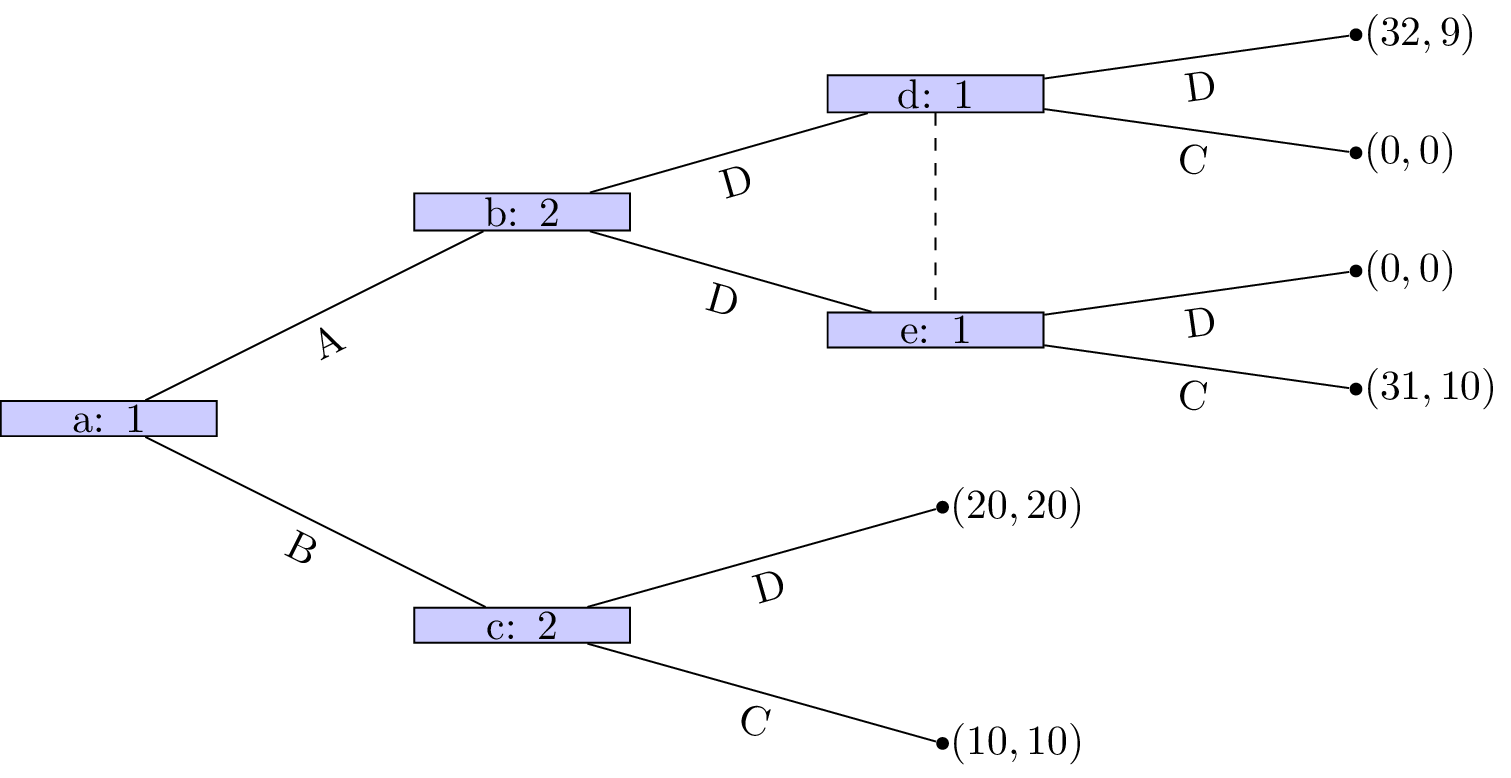
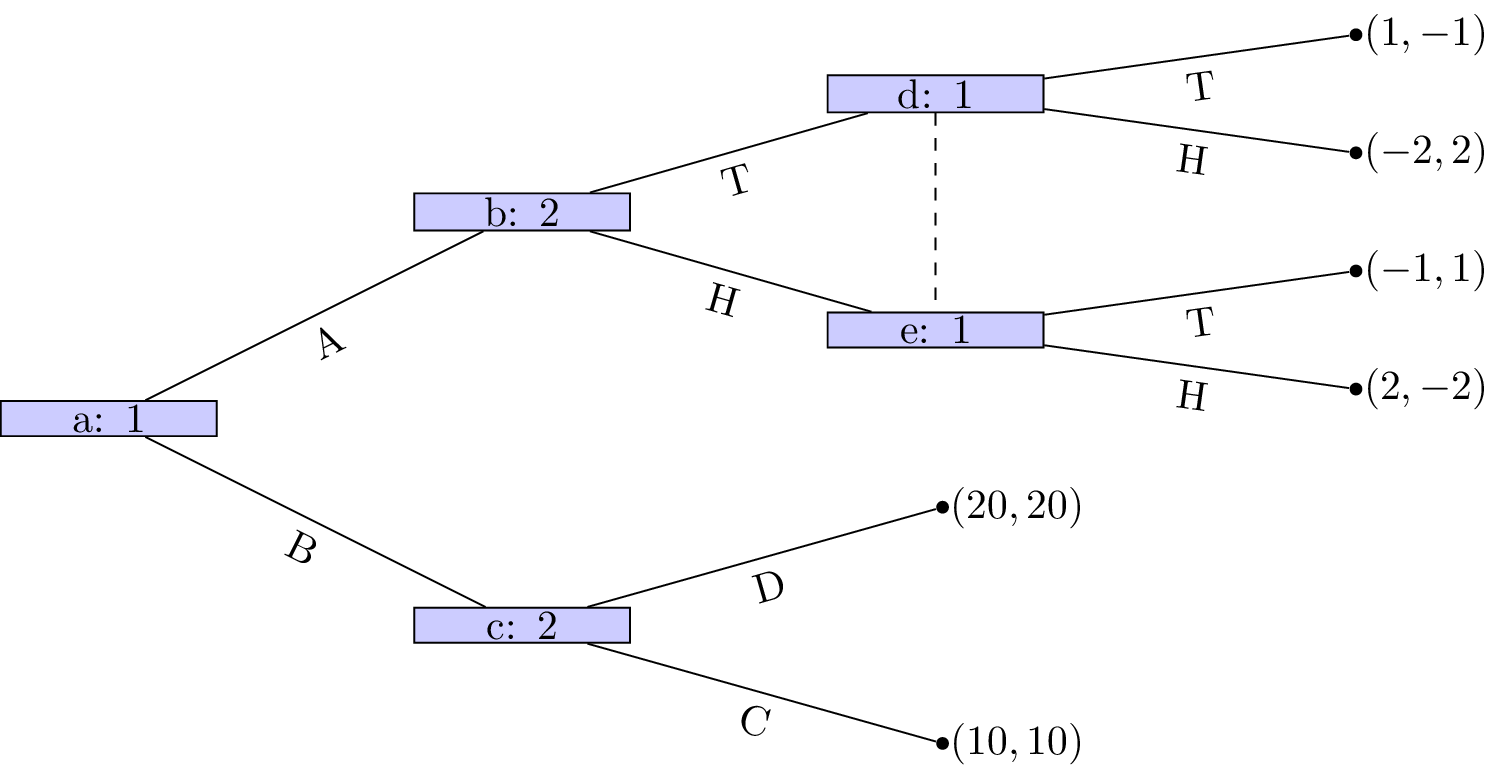
Update images

diff --git a/Solutions/images/E03-img07.tex b/Solutions/images/E03-img07.tex
@@ -14,13 +14,13 @@
                 child {node[end] {} node[right] {$(20,20)$} edge from parent node[below] {D}} edge from parent node[below] {B}}
         child {node[player] {b: 2}
                 child {node (E) [player] {e: 1}
-                    child {node[end] {} node [right] {$(31,10)$} edge from parent node[below] {C}}
-                    child {node[end] {} node [right] {$(0,0)$} edge from parent node[below] {D}}
-                        edge from parent node[below] {D}}
+                    child {node[end] {} node [right] {$(2,-2)$} edge from parent node[below] {H}}
+                    child {node[end] {} node [right] {$(-1,1)$} edge from parent node[below] {T}}
+                        edge from parent node[below] {H}}
                 child {node (D) [player] {d: 1}
-                    child{node[end] {} node [right] {$(0,0)$} edge from parent node[below] {C}}
-                    child{node[end] {} node [right] {$(32,9)$} edge from parent node[below] {D}}
-                edge from parent node[below] {D}}
+                    child{node[end] {} node [right] {$(-2,2)$} edge from parent node[below] {H}}
+                    child{node[end] {} node [right] {$(1,-1)$} edge from parent node[below] {T}}
+                edge from parent node[below] {T}}
         edge from parent node[below] {A}
 };
             \draw [dashed] (D) -- (E);
